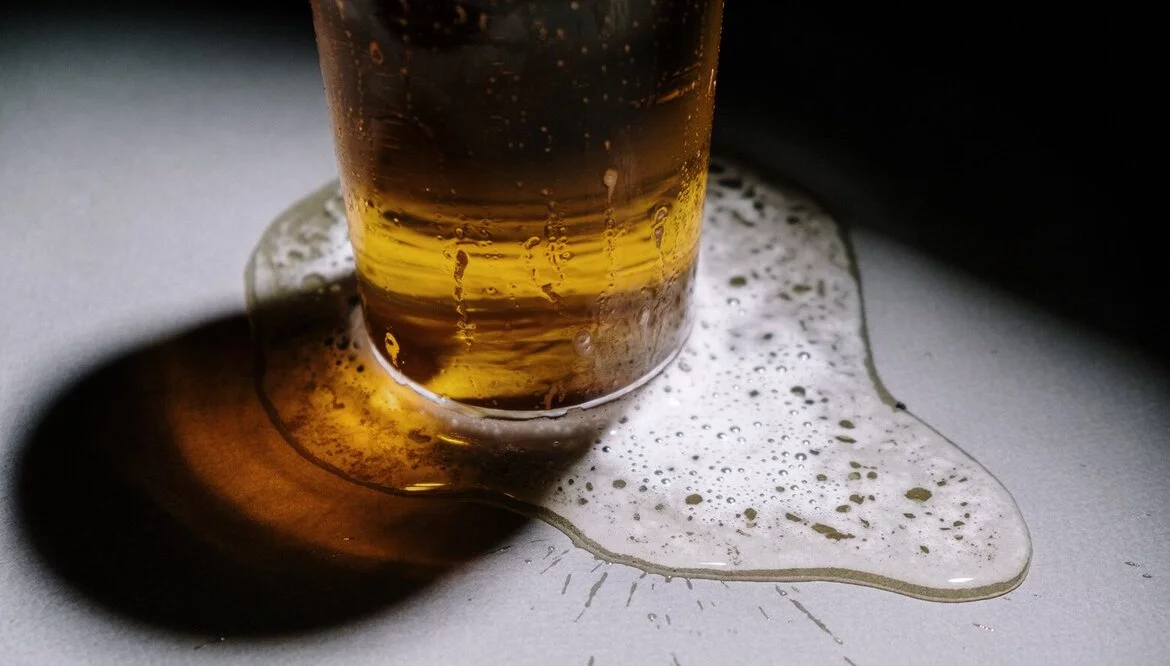
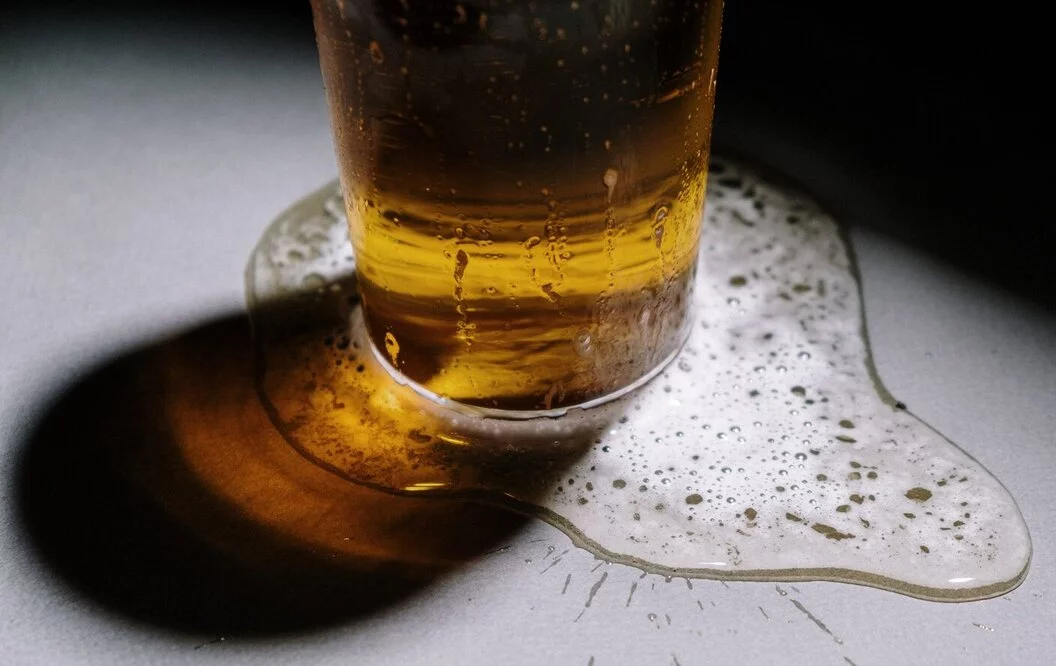
Edit image resolutions, add lightouse results and add to testing procedure

diff --git a/README.md b/README.md
@@ -48,6 +48,7 @@ Apprentice Brewing was founded to educate and engage people in the creative worl
 * The site's main colours of black, white and gold were chosen to mimic the golden colours in a pint of lager within the dim setting of a pub.
 * A colour grid was created to evaluate appropriate colour pairings using the [Eight Shapes Color Grid](https://contrast-grid.eightshapes.com/?version=1.1.0&background-colors=&foreground-colors=%23ffffff%0D%0A%23000000%0D%0A%23daa520%0D%0A&es-color-form__tile-size=compact&es-color-form__show-contrast=aaa&es-color-form__show-contrast=aa&es-color-form__show-contrast=aa18&es-color-form__show-contrast=dnp)
 * From this it was decided that all fonts would be kept black upon either white or golden background colours in order to provide sufficient contrast for the users. The inversion was also used to highlight active classes or upon hovering over elements.
+
 ![Colour Contrast](assets/images/readme/color-contrast.PNG)
 
 
@@ -57,35 +58,42 @@ Apprentice Brewing was founded to educate and engage people in the creative worl
 * The submenus in the Brew and Resources pages allow the user to skip to the section they desire to view without manually scrolling themselves.
 * Throughout the website there are several anchor elements which redirect the user to relevant pages and sub-sections of the website. For example in the introduction, several pages and sections within the website are hyperlinked within the paragraph to quickly redirect the user. The the text is underlined upon hovering the cursor over the hyperlinks to indicate to the user that it is an active link.  
 * There is also a 'Return To Top' button at the bottom of the page to save the user from scrolling back up to the top of the page.
+
 ![Header](assets/images/readme/header.PNG)
 
 ### Introduction
 * Users are welcomed to the site by an introduction to the Apprentice Brewing organisation and a small gallery of homebrew beer to encourage curiosity for the user to explore the site more.
+
 ![Introduction section](assets/images/readme/who-we-are.PNG)
 
 ### Contact Form
 * The contact from enables users to contact us with any questions they may have about brewing or the organisation. They also have the option to join the mailing list to stay informed on company updates and recommendations.
-* The background image of people laughing and enjoying a beer expresses the company's desire to connect with their user community and encourages the user to get in touch.  
+* The background image of people laughing and enjoying a beer expresses the company's desire to connect with their user community and encourages the user to get in touch.
+
 ![Contact Form](assets/images/readme/contact-form.PNG)
 
 ### Animations
 * Hero Image Zoom
 This is the first thing the user will see on the site as the image is animated to zoom in 10% upon loading the page.
 * Submenu Pan
-The submenus are designed with a background image of the carbonation bubbles within a beer. Upon loading the pages the image scrolls from the top of the image to the bottom, giving the impression that the bubbles are rising through the menu.  
+The submenus are designed with a background image of the carbonation bubbles within a beer. Upon loading the pages the image scrolls from the top of the image to the bottom, giving the impression that the bubbles are rising through the menu.
+
 ![Hero image](assets/images/readme/hero-image.PNG)
 
 ### Brewing Guide
 * The Equipment section provides direct hyperlinks to each product. This allows the user to familiarise themselves with what product looks like, and with a recommendation of a cheap option for each product should they wish to buy them.
+
 ![Brewing guide](assets/images/readme/brew-guide.PNG)
 
 ### Recommended Resources
 * The resources section offer the user with products and information for them to explore to get started. Four key retailers are recommended, which vary in price and quality, so that a wide budget range is covered.
-* Users can click on each retailer anchor block to be redirected to their respectivel websites. Each website opens in a new tab to keep the user's position on our website to easily return to the resources page later. 
+* Users can click on each retailer anchor block to be redirected to their respectivel websites. Each website opens in a new tab to keep the user's position on our website to easily return to the resources page later.
+
 ![Best beer kits](assets/images/readme/best-beer-kits.PNG)
 
 ### Tutorial Videos
 * The tutorial videos allow users to visually learn from expert brewers and beer enthusiasts to accelerate their knowledge of brewing processes and technques. Users can choose to open the videos externally on the Youtube in another tab by clicking the integrated 'Watch on YouTube' button.
+
 ![Embedded tutorial video](assets/images/readme/embedded-videos.PNG)
 
 
@@ -95,7 +103,7 @@ Various additional features would bring a greater user experience to the website
 * The addition of user feedback through comments sections would allow for continual site improvement and additional perspectives from fellow brewers.
 * The addition of a user up/down-voting system on the recommended products would help users to make an informed decision on what to buy by considering the recommendations of the site users.
 * The addition of a community upload page, where users can post and descibe their own batches, and users can share general discussions about their shared interest in homebrewing beer.
-* The embedded YouTube videos are resource heavy elements that cause a significant reduction in the performance of the website due to the eager-loading of videos upon the initial load of the webpage. As a result, it would be beneficial to introduce lazy-loading of videos, to ensure that only the data required by the user are loaded and therefore improving the performance of the website. Should users wish to then watch the tutorial videos, they can be loaded upon request.
+* The embedded YouTube videos are resource heavy elements that cause a significant reduction in the performance of the website on mobile devices due to the eager-loading of videos upon the initial load of the webpage. As a result, it would be beneficial to introduce lazy-loading of videos, to ensure that only the data required by the user are loaded and therefore improving the performance of the website. Should users wish to then watch the tutorial videos, they can be loaded upon request.
 
 
 ## Technology Used
@@ -109,13 +117,24 @@ Various additional features would bring a greater user experience to the website
 
 ## Testing
 * All links and images on the website work correctly and all elements are responsive to screen size.
-* All embedded videos play within the site when clicked and successfully redirect to the Youtube site when requested. 
-* The website was tested across various browsers, including Google Chrome, Mozilla Firefox and Microsoft Edge.
-* The website was responsive across screen sizes between 320px and 1600px in width. Content readablility was optimised by altering the size and positioning of elements. The Developer Tools function was used to test this across Google Chrome, Mozilla Firefox and Microsoft Edge to verify the site was fully responsive across the specificed screen witdhs and across different browsers.
 * The contact form was tested by checking all possible input combinations. Such checks included:
     * Ensuring that the form is not submitted empty, without any information inputted.
     * Ensuring that the all required field were completed before submitting the form. All fields except the message were required, as users do not need to submit a comment.
     * Ensuring that the inputted email address was in the correct form and included the '@' sign.
+* All embedded videos play within the site when clicked and successfully redirect to the Youtube site when requested.
+* The website was tested across various browsers, including Google Chrome, Mozilla Firefox and Microsoft Edge.
+### Developer Tools
+* The Developer Tools function was used to test this across Google Chrome, Mozilla Firefox and Microsoft Edge to verify the site was fully responsive across the specificed screen witdhs and across different browsers.
+* The website was responsive across screen sizes between 320px and 1600px in width. Content readablility was optimised by altering the size and positioning of elements. 
+* The website was designed using a desktop-first approach, therefore the image resolutions were optimised to look better on larger screens. This resulted in a lower performance score on mobile devices as the image resolution was much larger than the maximum screen resolution.
+* As mentioned before, the eager-loading of embedded videos caused a significant reduction to the performance on mobile devices. Thus, the 'Resources' page exhibited a lower performance score compared to the other pages.
+
+#### Desktop Homepage Lightouse Results
+![Desktop Homepage Lightouse Results](assets/images/readme/lighthouse-results-desktop-about.PNG)
+
+#### Mobile Homepage Lightouse Results
+![Mobile Homepage Lighthouse Results](assets/images/readme/lighthouse-results-mobile-about.PNG)
+
 
 ### Validator Testing
 #### HTML
@@ -123,8 +142,8 @@ Various additional features would bring a greater user experience to the website
 #### CSS
 * No errors were found when running the css code through the [official W3C Jigsaw validator](https://jigsaw.w3.org/css-validator/)
 #### Accessibility
-* The website was tested using the Lighthouse function in Chrome DevTools, showing a very high level of accessibility.
-![Lighthouse results](assets/images/readme/lighthouse-results.webp)
+* The website was tested using the Lighthouse function in Chrome DevTools, showing a accessibility level of 100%.
+    
 
 ### Bugs
 * **Issue** - Centering images and headings within div elements
@@ -172,10 +191,11 @@ The site was deployed to GitHub pages. The steps to deploy are as follows:
 * All fonts were imported from [Google Fonts](https://fonts.google.com/)
 
 ### Media
-* The background and hero images were taken from - https://www.pexels.com/
+* The background and hero images were taken from [Pexels](https://www.pexels.com/)
+* The images from the How To Brew section were taken from [Pexels](https://www.pexels.com/), [Kegerator](https://learn.kegerator.com/homebrew-cleaning-sanitation/), [Serious Eats](https://www.seriouseats.com/homebrewing-what-you-need-for-your-first-brew-equipment), [All Recipes](https://www.allrecipes.com/article/how-to-brew-beer/) and [Renegade Brewing](https://renegadebrewing.com/what-is-a-rack-of-beer/)
 * The tutorial videos were taken from:
     * [How to make great tasting beer at home.](https://www.youtube.com/watch?v=T1l1oCyCZKo)
     * [Coopers Lager 40 Pint Home Brew Beer Kit, our experience - Part 1](https://www.youtube.com/watch?v=SkpxH7FxLxU)
     * [A Guide To Siphoning](https://www.youtube.com/watch?v=bYnQmyGlotQ)
 * The code to make the videos responsive was found at - https://www.smashingmagazine.com/2014/02/making-embedded-content-work-in-responsive-design/
-* The CSS to pan across the beer bubbles background image was taken from - https://stackoverflow.com/questions/33835096/css-to-pan-background-image-back-and-forth
+* The code to pan across the beer bubbles background image was taken from - https://stackoverflow.com/questions/33835096/css-to-pan-background-image-back-and-forth
